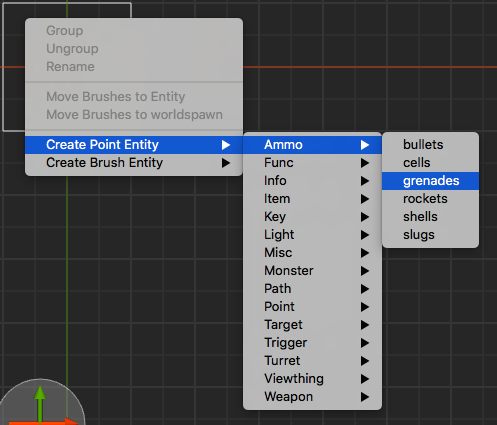
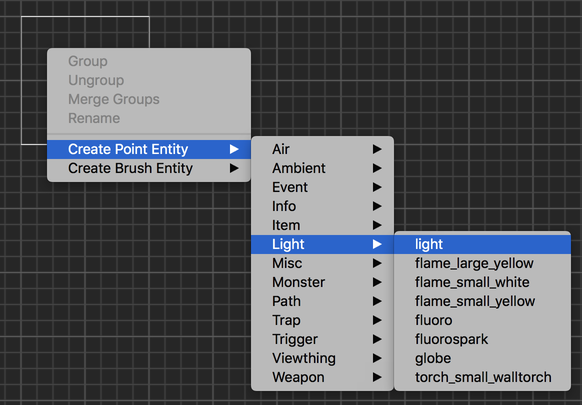
2620: Update manual for tags and new keyboard shortcuts. (#2630)

diff --git a/app/resources/documentation/manual/shortcuts.js b/app/resources/documentation/manual/shortcuts.js
@@ -190,7 +190,6 @@ keys["windows"][392] = "Numpad /";
 keys["windows"][393] = "Left Windows Key";
 keys["windows"][394] = "Right Windows Key";
 keys["windows"][395] = "Windows Menu Key";
-keys["windows"][396] = "Ctrl";
 keys["windows"]["+"] = "+";
 keys["mac"][8] = "&#x232B;";
 keys["mac"][9] = "&#x21E5;";
@@ -383,7 +382,6 @@ keys["mac"][392] = "Numpad /";
 keys["mac"][393] = "Left Windows Key";
 keys["mac"][394] = "Right Windows Key";
 keys["mac"][395] = "Windows Menu Key";
-keys["mac"][396] = "&#x2303;";
 keys["mac"]["+"] = "";
 keys["linux"][8] = "Backspace";
 keys["linux"][9] = "Tab";
@@ -576,7 +574,6 @@ keys["linux"][392] = "Numpad /";
 keys["linux"][393] = "Left Windows Key";
 keys["linux"][394] = "Right Windows Key";
 keys["linux"][395] = "Windows Menu Key";
-keys["linux"][396] = "Ctrl";
 keys["linux"]["+"] = "+";
 
 var menu = {};
@@ -594,9 +591,6 @@ menu["Menu/File/Unload Portal File"] = { path: ["File", "Unload Portal File"], s
 menu["Menu/File/Reload Texture Collections"] = { path: ["File", "Reload Texture Collections"], shortcut: { key:344, modifiers: [] } };
 menu["Menu/File/Reload Entity Definitions"] = { path: ["File", "Reload Entity Definitions"], shortcut: { key:345, modifiers: [] } };
 menu["Menu/File/Close"] = { path: ["File", "Close"], shortcut: { key:87, modifiers: [308] } };
-menu["Menu/File/About TrenchBroom"] = { path: ["File", "About TrenchBroom"], shortcut: { key:0, modifiers: [] } };
-menu["Menu/File/Preferences"] = { path: ["File", "Preferences..."], shortcut: { key:44, modifiers: [308] } };
-menu["Menu/File/Exit"] = { path: ["File", "Exit"], shortcut: { key:0, modifiers: [] } };
 menu["Menu/Edit/Undo"] = { path: ["Edit", "Undo"], shortcut: { key:90, modifiers: [308] } };
 menu["Menu/Edit/Redo"] = { path: ["Edit", "Redo"], shortcut: { key:90, modifiers: [306, 308] } };
 menu["Menu/Edit/Repeat"] = { path: ["Edit", "Repeat"], shortcut: { key:82, modifiers: [308] } };
@@ -606,7 +600,7 @@ menu["Menu/Edit/Copy"] = { path: ["Edit", "Copy"], shortcut: { key:67, modifiers
 menu["Menu/Edit/Paste"] = { path: ["Edit", "Paste"], shortcut: { key:86, modifiers: [308] } };
 menu["Menu/Edit/Paste at Original Position"] = { path: ["Edit", "Paste at Original Position"], shortcut: { key:86, modifiers: [307, 308] } };
 menu["Menu/Edit/Duplicate"] = { path: ["Edit", "Duplicate"], shortcut: { key:68, modifiers: [308] } };
-menu["Menu/Edit/Delete"] = { path: ["Edit", "Delete"], shortcut: { key:8, modifiers: [] } };
+menu["Menu/Edit/Delete"] = { path: ["Edit", "Delete"], shortcut: { key:127, modifiers: [] } };
 menu["Menu/Edit/Select All"] = { path: ["Edit", "Select All"], shortcut: { key:65, modifiers: [308] } };
 menu["Menu/Edit/Select Siblings"] = { path: ["Edit", "Select Siblings"], shortcut: { key:66, modifiers: [308] } };
 menu["Menu/Edit/Select Touching"] = { path: ["Edit", "Select Touching"], shortcut: { key:84, modifiers: [308] } };
@@ -629,7 +623,7 @@ menu["Menu/Edit/CSG/Subtract"] = { path: ["Edit", "CSG", "Subtract"], shortcut: 
 menu["Menu/Edit/CSG/Hollow"] = { path: ["Edit", "CSG", "Hollow"], shortcut: { key:75, modifiers: [307, 308] } };
 menu["Menu/Edit/CSG/Intersect"] = { path: ["Edit", "CSG", "Intersect"], shortcut: { key:76, modifiers: [308] } };
 menu["Menu/Edit/Snap Vertices to Integer"] = { path: ["Edit", "Snap Vertices to Integer"], shortcut: { key:86, modifiers: [306, 308] } };
-menu["Menu/Edit/Snap Vertices to Grid"] = { path: ["Edit", "Snap Vertices to Grid"], shortcut: { key:86, modifiers: [307, 306, 308] } };
+menu["Menu/Edit/Snap Vertices to Grid"] = { path: ["Edit", "Snap Vertices to Grid"], shortcut: { key:86, modifiers: [306, 307, 308] } };
 menu["Menu/Edit/Texture Lock"] = { path: ["Edit", "Texture Lock"], shortcut: { key:0, modifiers: [] } };
 menu["Menu/Edit/UV Lock"] = { path: ["Edit", "UV Lock"], shortcut: { key:85, modifiers: [] } };
 menu["Menu/Edit/Replace Texture"] = { path: ["Edit", "Replace Texture..."], shortcut: { key:0, modifiers: [] } };
@@ -662,6 +656,7 @@ menu["Menu/View/Switch to Face Inspector"] = { path: ["View", "Switch to Face In
 menu["Menu/View/Toggle Info Panel"] = { path: ["View", "Toggle Info Panel"], shortcut: { key:52, modifiers: [308] } };
 menu["Menu/View/Toggle Inspector"] = { path: ["View", "Toggle Inspector"], shortcut: { key:53, modifiers: [308] } };
 menu["Menu/View/Maximize Current View"] = { path: ["View", "Maximize Current View"], shortcut: { key:32, modifiers: [308] } };
+menu["Menu/View/Preferences"] = { path: ["View", "Preferences..."], shortcut: { key:0, modifiers: [] } };
 menu["Menu/Run/Compile"] = { path: ["Run", "Compile..."], shortcut: { key:0, modifiers: [] } };
 menu["Menu/Run/Launch"] = { path: ["Run", "Launch..."], shortcut: { key:0, modifiers: [] } };
 menu["Menu/Debug/Print Vertices"] = { path: ["Debug", "Print Vertices"], shortcut: { key:0, modifiers: [] } };
@@ -673,7 +668,8 @@ menu["Menu/Debug/Crash"] = { path: ["Debug", "Crash..."], shortcut: { key:0, mod
 menu["Menu/Debug/Throw Exception During Command"] = { path: ["Debug", "Throw Exception During Command"], shortcut: { key:0, modifiers: [] } };
 menu["Menu/Debug/Show Crash Report Dialog"] = { path: ["Debug", "Show Crash Report Dialog"], shortcut: { key:0, modifiers: [] } };
 menu["Menu/Debug/Set Window Size"] = { path: ["Debug", "Set Window Size..."], shortcut: { key:0, modifiers: [] } };
-menu["Menu/Help/TrenchBroom Manual"] = { path: ["Help", "TrenchBroom Manual"], shortcut: { key:0, modifiers: [] } };
+menu["Menu/Help/TrenchBroom Manual"] = { path: ["Help", "TrenchBroom Manual"], shortcut: { key:340, modifiers: [] } };
+menu["Menu/Help/About TrenchBroom"] = { path: ["Help", "About TrenchBroom"], shortcut: { key:0, modifiers: [] } };
 var actions = {};
 actions["Controls/Map view/Create brush"] = { key:13, modifiers: [] };
 actions["Controls/Map view/Toggle clip side"] = { key:13, modifiers: [308] };
@@ -732,6 +728,24 @@ actions["Controls/Map view/Cycle map view"] = { key:32, modifiers: [] };
 actions["Controls/Map view/Reset camera zoom"] = { key:27, modifiers: [306] };
 actions["Controls/Map view/Cancel"] = { key:27, modifiers: [] };
 actions["Controls/Map view/Deactivate current tool"] = { key:27, modifiers: [308] };
+actions["Controls/Map view/Make structural"] = { key:83, modifiers: [307] };
+actions["Controls/Map view/View Filter > Toggle show entity classnames"] = { key:0, modifiers: [] };
+actions["Controls/Map view/View Filter > Toggle show group bounds"] = { key:0, modifiers: [] };
+actions["Controls/Map view/View Filter > Toggle show brush entity bounds"] = { key:0, modifiers: [] };
+actions["Controls/Map view/View Filter > Toggle show point entity bounds"] = { key:0, modifiers: [] };
+actions["Controls/Map view/View Filter > Toggle show point entities"] = { key:0, modifiers: [] };
+actions["Controls/Map view/View Filter > Toggle show point entity models"] = { key:0, modifiers: [] };
+actions["Controls/Map view/View Filter > Toggle show brushes"] = { key:0, modifiers: [] };
+actions["Controls/Map view/View Filter > Show textures"] = { key:0, modifiers: [] };
+actions["Controls/Map view/View Filter > Hide textures"] = { key:0, modifiers: [] };
+actions["Controls/Map view/View Filter > Hide faces"] = { key:0, modifiers: [] };
+actions["Controls/Map view/View Filter > Shade faces"] = { key:0, modifiers: [] };
+actions["Controls/Map view/View Filter > Use fog"] = { key:0, modifiers: [] };
+actions["Controls/Map view/View Filter > Show edges"] = { key:0, modifiers: [] };
+actions["Controls/Map view/View Filter > Show all entity links"] = { key:0, modifiers: [] };
+actions["Controls/Map view/View Filter > Show transitively selected entity links"] = { key:0, modifiers: [] };
+actions["Controls/Map view/View Filter > Show directly selected entity links"] = { key:0, modifiers: [] };
+actions["Controls/Map view/View Filter > Hide entity links"] = { key:0, modifiers: [] };
 actions["Controls/Camera/Move forward"] = { key:87, modifiers: [] };
 actions["Controls/Camera/Move backward"] = { key:83, modifiers: [] };
 actions["Controls/Camera/Move left"] = { key:65, modifiers: [] };

diff --git a/app/resources/documentation/manual/index.md b/app/resources/documentation/manual/index.md
@@ -16,13 +16,14 @@ TrenchBroom is a level editing program for brush-based game engines such as Quak
 	- Issue browser with automatic quick fixes
 	- Run external compilers and launch game engines
 	- Point file support
+	- Portal file support
 	- Automatic backups
 	- Free and cross platform
 * **Brush Editing**
 	- Robust vertex editing with edge and face splitting and manipulating multiple vertices together
 	- Clipping tool with two and three points
 	- Scale and shear tools
-	- CSG operations: merge, subtract, intersect, hollow
+	- CSG operations: merge, subtract, hollow
 	- UV view for easy texture manipulations
 	- Precise texture lock for all brush editing operations
 	- Multiple texture collections
@@ -31,7 +32,7 @@ TrenchBroom is a level editing program for brush-based game engines such as Quak
 	- Support for FGD, ENT and DEF files for entity definitions
 	- Mod support
 	- Entity link visualization
-	- Displays 3D models in the editor
+	- Displays 3D models in the editor (supports mdl, md2, md3, bsp, dkm)
 	- Smart entity property editors
 
 ## About This Document
@@ -138,7 +139,7 @@ The sizes of the editing area, the inspector and the info bar can be changed by 
 
 The editing area is divided in two sections: The context sensitive info bar at the top and the viewports below. The info bar contains different controls depending on which tool is currently activated. You can switch between tools such as the rotate tool and the vertex tool using the toolbar buttons, the menu or with the respective keyboard shortcuts. The context sensitive controls allow you to perform certain actions that are relevant to the current tool such as setting the rotation center when in the rotate tool or moving objects by a given delta when in the default move tool. Additonally, there is a button labeled "View" on the right of the info bar. Clicking on this button unfolds a dropdown containing controls to [filter out](#filtering_rendering_options) certain objects in the viewports or to change how the viewport [renders its contents](#filtering_rendering_options).
 
-![The info bar with view dropdown (Windows 7)](images/ViewDropdown.png)
+![The info bar with view dropdown (Windows 10)](images/ViewDropdown.png)
 
 There are two types of viewports: 3D viewports and 2D viewports. TrenchBroom gives you some control over the layout of the viewports: You can have one, two, three, or four viewports. See section [View Layout and Rendering](#view_layout_and_rendering) to find out how to change the layout of the viewports. If you have fewer than four viewports, then one of the viewports can be cycled by hitting #action(Controls/Map view/Cycle map view). Which of the viewports can be cycled and the order of cycling the viewports is given in the following table:
 
@@ -406,11 +407,11 @@ It is not possible to modify or remove points after they have been placed, excep
 
 ### Creating Entities {#creating_entities}
 
-There are two types of entities: point entities and brush entities, and it depends on the type how an entity is created. In the following sections, we present two ways of creating point entities and one way to create brush entities.
+There are two types of entities: point entities and brush entities, and it depends on the type how an entity is created. In the following sections, we present three ways of creating point entities and two ways to create brush entities.
 
 #### Point Entities
 
-There are two ways of creating new point entities. Firstly, you can drop new entities in the 3D and 2D viewports by using the context menu. To open the context menu, right click into the viewport. To create a point entity such as a pickup weapon or a monster, open the "Create Point Entity" sub menu and select the correct entity definition from the sub menus.
+There are three ways of creating new point entities. Firstly, you can drop new entities in the 3D and 2D viewports by using the context menu. To open the context menu, right click into the viewport. To create a point entity such as a pickup weapon or a monster, open the "Create Point Entity" sub menu and select the correct entity definition from the sub menus.
 
 ![Dropping an entity with the context menu (Mac OS X)](images/CreateEntityContextMenu.png)
 
@@ -422,9 +423,13 @@ The leftmost dropdown list allows you to change the sort order. Entities can be 
 
 To create a new entity, simply drag it out of the browser and onto the 3D or a 2D viewport. If you drag it onto the 3D viewport, the entity will be positioned on the brush under the mouse, with its bounding box snapped to the grid. If you drag the entity onto a 2D viewport, its position is determined by the far end of the most recently selected object.
 
+Finally, you can create specific entities by assigning a keyboard shorcut in the [preferences](##keyboard_shortcuts). This is useful for entities that are used very often such as lights. The entity will be created under the mouse cursor; its position will be computed in the same way as if the context menu was used.
+
 #### Brush Entities
 
-![Moving brushes to brush entities](images/MoveBrushesToEntity.png) Creating brush entities is also done using the context menu. Select a couple of brushes and right click on them, then select the desired brush entity from the menu. To move brushes from one brush entity to another, select the brushes you wish to move and right click on a brush belonging to the brush entity to which you want to move the brushes, and select "Move brushes to ENTITY", where "ENTITY" is the name of the target brush entity, for example "func_button" in the picture on the left. If the brush entity containing the brushes to be moved becomes empty, it will be automatically deleted. To move brushes from a brush entity back into the world, select the brushes and right click on a world brush or on the void and select "Move brushes to World".
+![Moving brushes to brush entities](images/MoveBrushesToEntity.png) Creating brush entities is also done using the context menu. Select a couple of brushes and right click on them, then select the desired brush entity from the menu. To move brushes from one brush entity to another, select the brushes you wish to move and right click on a brush belonging to the brush entity to which you want to move the brushes, and select "Move brushes to Entity ENTITY", where "ENTITY" is the name of the target brush entity, for example "func_door" in the picture on the left. If the brush entity containing the brushes to be moved becomes empty, it will be automatically deleted. To move brushes from a brush entity back into the world, select the brushes, right click and select "Make Structural".
+
+Additionally, you can also assign a keyboard shorcut to create a specific brush entity in the [preferences](##keyboard_shortcuts).
 
 Often, it is much quicker to create new objects by duplicating existing ones. Objects can be duplicated using dedicated functions in TrenchBroom, or just by copying and pasting them.
 
@@ -789,6 +794,32 @@ In each of the CSG operations, new brushes are created, and TrenchBroom has to a
 
 In the example above, a brush is subtracted from another brush to form an archway. The subtrahend has a blue brick texture and the minuend has a dark metal texture. After the subtraction, those faces of the result that line up with the faces of the subtrahend have also been assigned the blue brick texture, while those faces that line up with the faces of the minuend brush have been assigned the dark metal texture. Some of the faces of the result brushes are invisible because they are shared by other brushes - these faces have been assigned the current texture because no face of the subtrahend or the minuend lines up with them.
 
+## Special Brush and Face Types {#special_brush_face_types}
+
+Most Quake based games have certain special types of brushes and faces. An example for a special brush type is a *trigger brush* that activates some game logic. A special face type may be a face textured with a special _clip_ texture that is invisible, but blocks the player from passing it. In Quake 3, _caulk_ faces are often used to tell the bsp compiler to skip certain faces because they are invisible.
+
+TrenchBroom is aware of these special brush and face types as long as they are configured in the [game configuration file](#game_configuration_files) for a game. Special brush or face types can be detected by TrenchBroom in the following ways:
+
+* **Brush Types**
+	- **Entity Classname Pattern** If a brush is contained in an entity whose classname matches a certain pattern, it will receive the special brush type (example: trigger brushes).
+* **Face Types**
+	- **Texture Name Pattern** If a brush face has a texture whose name matches a certain pattern, it will receive the special face type (example: clip textures).
+	- **Content Flags** If a brush has one of several content flags, it will receive the special face type.
+	- **Surface Flags** If a brush has one of several surface flags, it will receive the special face type.
+	- **Surface Parm** If a brush has a specific surface parameter, it will receive the special face type.
+
+TrenchBroom allows you to filter for special brush and face types in the [filtering and rendering options](#filtering_rendering_options). Furthermore, you can assign a keyboard shortcut to set or unset a special brush type (if supported). The following special brush and face types can be set / unset in this way:
+
+* **Brush Types**
+	- **Entity Classname Pattern** Can be set and unset. Setting a brush type wraps the selected brushes in a newly created entity with a classname that matches the pattern. If more than one classnames in the currently loaded entity definitions matches the pattern, a dropdown menu is shown to allow you to choose one of the options. Unsetting a brush type simply moves the selected brushes into the world.
+* **Face Types**
+	- **Texture Name Pattern** Can be set only. Setting a face type sets a texture whose name matches the pattern on the selected faces. If more than one texture in the currently loaded texture collections matches the pattern, a dropdown menu is shown to allow you to choose one of the options.
+	- **Content Flags** Can be set and unset. Setting a face type sets one of the configured content flags on the selected faces. If more than one content flag was configured, a dropdown menu is shown to allow you to choose one of the options. Unsetting clears all of the configured content flags.
+	- **Surface Flags** Can be set and unset. Setting a face type sets one of the configured surface flags on the selected faces. If more than one surface flag was configured, a dropdown menu is shown to allow you to choose one of the options. Unsetting clears all of the configured surface flags.
+	- **Surface Parm** Can neither be set nor unset.
+
+Finally, every special brush or face type that supports unsetting can be cleared using the *Make Structural* command #action(Controls/Map view/Make structural).
+
 ## Working with Textures {#working_with_textures}
 
 There are two aspects to working with textures in a level editor. [Texture management](#texture_management) and texture application. This section deals with the latter, so you will learn different ways to apply textures to brush faces and to manipulate their alignment to the faces. But before we dive into that, we have to cover three general topics: First, we present the texture browser, then we explain how TrenchBroom assigns textures to newly created brush faces, and finally we discuss different texture projection modes in TrenchBroom.
@@ -957,9 +988,17 @@ If you are working on large maps, it can become cumbersome to manage the objects
 
 To filter out certain types of objects, you can open the view dropdown window by clicking on the "View" button at the right of the info bar above the editing area.
 
-![The info bar with view dropdown (Windows 7)](images/ViewDropdown.png)
+![The info bar with view dropdown (Windows 10)](images/ViewDropdown.png)
 
-In the left of the view dropdown, there is a list of checkboxes that allows you to hide all entities that share the same entity definition (i.e., the same classname). Uncheck an entity definition (or a group thereof) to hide the respective entities. For quickly hiding and showing all entities, you can click on the two buttons below the list. The right half of the view dropdown contains some options for the renderer, most of which are self explanatory.
+In the left of the view dropdown, there is a list of checkboxes that allows you to hide all entities that share the same entity definition (i.e., the same classname). Uncheck an entity definition (or a group thereof) to hide the respective entities. For quickly hiding and showing all entities, you can click on the two buttons below the list. 
+
+The right half of the view dropdown has several options, partitioned into three groups.
+
+* **Entities** - here you can configure how entities are rendered in the editor.
+* **Brushes** - allows you to toggle on or off certain special brush or face types. These types are game specific and are read from the [game configuration file](#game_configuration_files).
+* **Renderer** - various options on how other objects are rendered.
+
+Note that it is possible to add keyboard shortcuts to toggle every option in the view dropdown in the [preferences](#keyboard_shortcuts).
 
 ## Hiding and Isolation
 
@@ -1046,11 +1085,21 @@ Mouse Pan 	Sensitivity and axis inversion for mouse panning (middle click and dr
 Mouse Move 	Sensitivity and settings for moving the camera with the mouse. If you use a tablet, the setting "Alt+MMB drag to move camera" might make navigation easier for you.
 Move Keys 	Keyboard shortcuts for moving around in the map, with a separate slider to control the speed.
 
-## Keyboard Shortcuts
+## Keyboard Shortcuts {#keyboard_shortcuts}
 
 ![Keyboard Configuration Dialog (Linux XFCE)](images/KeyboardPreferences.png)
 
 In this preference pane, you can change the keybaord shortcuts used in TrenchBroom. The table lists all available shortcuts, their context, and the description. To change a keyboard shortcut, click twice (do not double click) on the shortcut in the first column of the table and enter the new shortcut. The context determines when this shortcut is available, for example, the PgDn key triggers different actions depending on whether the rotate tool is active or not. Finally, the desription column explains what a shortcut does in a particular context. Sometimes a shortcut triggers different actions depending on whether the viewport in which it was used is a 3D or a 2D viewport. For example, the PgDn key can move objects backward (away from the camera) in a 2D viewport or down along the Z axis in the 3D viewport. These different actions are listed together in the description column, but they are separated with a semicolon.
+
+If you open the preference dialog when a map is currently opened, the list of shortcuts will contain additional entries depending on the loaded entity configuration file and the game configuration file. For each entity and special brush or face types, the following keyboard shortcuts are available.
+
+* **Entity**
+	- `View Filter > Toggle CLASSNAME visible` to toggle entities with this classname visible and invisible ([more info](filtering_rendering_options))
+	- `Create CLASSNAME` to create entities with this classname ([more info](#creating_entities))
+* **Brush / Face Type**
+	- `View Filter > Toggle TYPE visible` to toggle brushes or faces with this type visible and invisible ([more info](filtering_rendering_options))
+	- `Turn selection into TYPE` to set this type to the selected brushes or faces
+	- `Turn selection into non-TYPE` to unset this type from the selected brushes or faces
 
 Note that if you assign a keyboard shortcut to different actions in the same context, the shortcut creates a conflict and you cannot exit the preference pane or close the dialog until you resolve the conflict. Conflicting shortcuts are highlighted in red.
 
@@ -1151,7 +1200,7 @@ Once the compilation is done, you can launch a game engine and check out your ma
 
 ## Launching Game Engines {#launching_game_engines}
 
-Before you can launch a game engine in TrenchBroom, you have to make your engine(s) known to TrenchBroom. You can do this by bringing up the game engine profile dialog either from the launch dialog (see below) or from the [game configuration]({#game_configuration).
+Before you can launch a game engine in TrenchBroom, you have to make your engine(s) known to TrenchBroom. You can do this by bringing up the game engine profile dialog either from the launch dialog (see below) or from the [game configuration](#game_configuration).
 
 There are two ways to launch a game engine from within TrenchBroom. Either click the 'Launch' button in the compilation dialog or choose #menu(Menu/Run/Launch). This brings up the launch dialog shown in the following screenshot.
 
@@ -1622,7 +1671,7 @@ The case operator allows for conditional evaluation of expressions. This is usal
 
      Case = SimpleTerm "->" Expression
 
-In a case expression, the part before the `->` operator is called the *premise* and the part after it is called the *conclusion*. The case operator is evaluated as follows:
+In a case expression, the part before the `->` operator is called the _premise_ and the part after it is called the _conclusion_. The case operator is evaluated as follows:
 
 - If the premise evaluates to a value `r` that is convertible to `boolean`:
     - If `r` converts to `true`: 
@@ -1899,7 +1948,7 @@ An example from an FGD file might look as follows.
 	    ]
 	]
 
-To improve compatibility to other editors, the model definition can also be named *studio* or *studioprop* in FGD files.
+To improve compatibility to other editors, the model definition can also be named _studio_ or _studioprop_ in FGD files.
 
 In an ENT file, the same model specification might look like this.
 
@@ -1915,7 +1964,7 @@ TrenchBroom can load point files (PTS) generated by QBSP, which help locate leak
 
 Portal files (PRT), also generated by QBSP, let you visualize the portals between BSP leafs. They can be loaded with #menu(Menu/File/Load Portal File) and are rendered as translucent red polygons.
 
-## Game Configuration Files
+## Game Configuration Files {#game_configuration_files}
 
 TrenchBroom uses game configuration files to provide support for different games. Some game configuration files come with the editor. They are installed at `<ResourcePath>/games`, where the value of `<ResourcePath>` depends on the platform according to the following table.
 
@@ -2024,7 +2073,30 @@ The game configuration is an [expression language](#expression_language) map wit
 	    }
     }
 
+#### Versions
 
+The game configuration files are versioned. Whenever a breaking change to the game configuration format is introduced, the version number will increase and TrenchBroom will reject the old format with an error message. The following sections will explain how to migrate a game configuration file for each version change.
+
+**Migrating to Version 3** 
+
+Version 3 deprecates the `brushtypes` key in favor of the `tags` key, but the contents are very similar. The value of the `brushtypes` key is an array of type matchers. The following brush type matchers are supported in version 2:
+
+Match        Description
+-----        -----------
+texture      Match against a texture name, must match all brush faces
+contentflag  Match against face content flags (used by Quake 2, Quake 3)
+surfaceflag  Match against face surface flags (used by Quake 2, Quake 3)
+surfaceparm  Match against shader surface parameters (used by Quake 3)
+classname    Match against a brush entity class name
+
+In version 3, the `tags` key is a map with two possible keys: `brush` and `brushface`. For both keys, the value is again an array of type matchers. The `brush` key supports the `classname` matcher and the `brushface` key supports the `texture`, `contentflag`, `surfaceflag` and `surfaceparm` matchers. To migrate the `brushtypes` key to the `tags` key, you create the basic structure as follows:
+
+    "tags": {
+        "brush": [ ... ],
+        "brushface": [ ... ]
+    }
+
+Then you need to copy your `classname` matchers into the array value of the `brush` key and all other matchers into the array of the `brushface` key. Finally, you can delete your `brushtypes` key. See the [tags](#game_configuration_files_tags) section for more information.
 
 #### File Formats
 
@@ -2032,12 +2104,12 @@ The file format is specified by an array of maps under the key `fileformats`. Th
 
 Format      	 Description
 ------      	 -----------
-Standard     	Standard Quake map file
-Valve       	Valve map file (like Standard, but with different texture info per face)
-Quake2       	Quake 2 map file
-Quake3       	Quake 3 map file (with brush primitives)
-Quake3 (legacy) Quake 3 map file (without brush primitives)
-Hexen2       	Hexen 2 map file (like Quake, but with an additional, but unused value per face)
+Standard     	 Standard Quake map file
+Valve       	 Valve map file (like Standard, but with different texture info per face)
+Quake2       	 Quake 2 map file
+Quake3       	 Quake 3 map file (with brush primitives)
+Quake3 (legacy)  Quake 3 map file (without brush primitives)
+Hexen2       	 Hexen 2 map file (like Quake, but with an additional, but unused value per face)
 
 Each entry of the array must have the following structure:
 
@@ -2132,12 +2204,13 @@ Format       Description
 ------       -----------
 mdl          Quake model format
 md2          Quake 2 model format
+md3          Quake 3 model format
 bsp        	 Compiled brush model, used by Quake and Hexen 2
 dkm          Daikatana model format
 
-#### Tags
+#### Tags {#game_configuration_files_tags}
 
-TrenchBroom can recognize certain special objects or special brush faces. An example would be clip faces or trigger brushes. But since the details can be game dependent, these special objects and faces are defined in the game configuration. For greater flexibility and future enhancements, a general tagging system is used to realize this functionality. Thereby, the game configuration defines smart tags which are applied automatically to brushes or brush faces depending on certain conditions.
+TrenchBroom can recognize certain special brush or face types. An example would be clip faces or trigger brushes. But since the details can be game dependent, these special types are defined in the game configuration. For greater flexibility and future enhancements, a general tagging system is used to realize this functionality. Thereby, the game configuration defines smart tags which are applied automatically to brushes or brush faces depending on certain conditions.
 
 The tags are specified separately for brushes and faces under the corresponding keys:
 
@@ -2171,6 +2244,7 @@ Depending on the value of the `match` key, additional keys may be required to co
 * For the `contentflag` and `surfaceflag` matchers, the key `flags` contains a list of content or surface flag names to match against (see below for more info on content and surface flags).
 * For the `surfaceparm` matcher, the key `pattern` contains a pattern that is matched against the surface parameters. Wildcards `*` and `?` are allowed. Use backslashes to escape literal `*` and `?` chars.
 * For the `classname` matcher, key `pattern` contains a pattern that is matched against the classname of the brush entity that contains the brush. Wildcards `*` and `?` are allowed. Use backslashes to escape literal `*` and `?` chars.
+	- Additionally, the `classname` matcher can contain an optional `texture` key - when this type is set by the user, then the selected brushes will receive the texture with the name given as the value of this key (e.g. `"texture": "trigger"` will assign the `trigger` texture).
 
 #### Face Attributes
 
